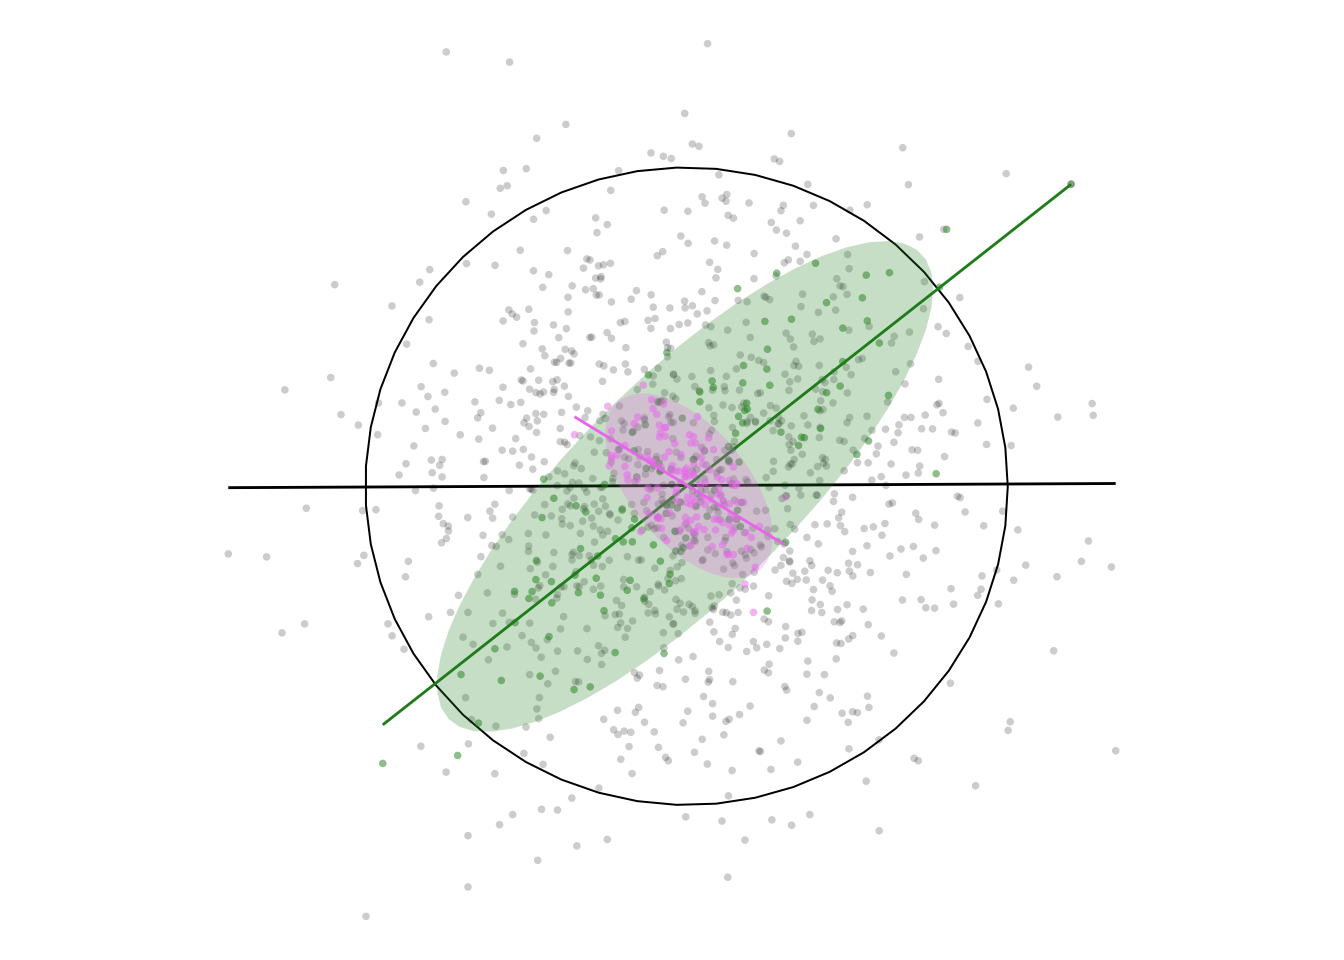
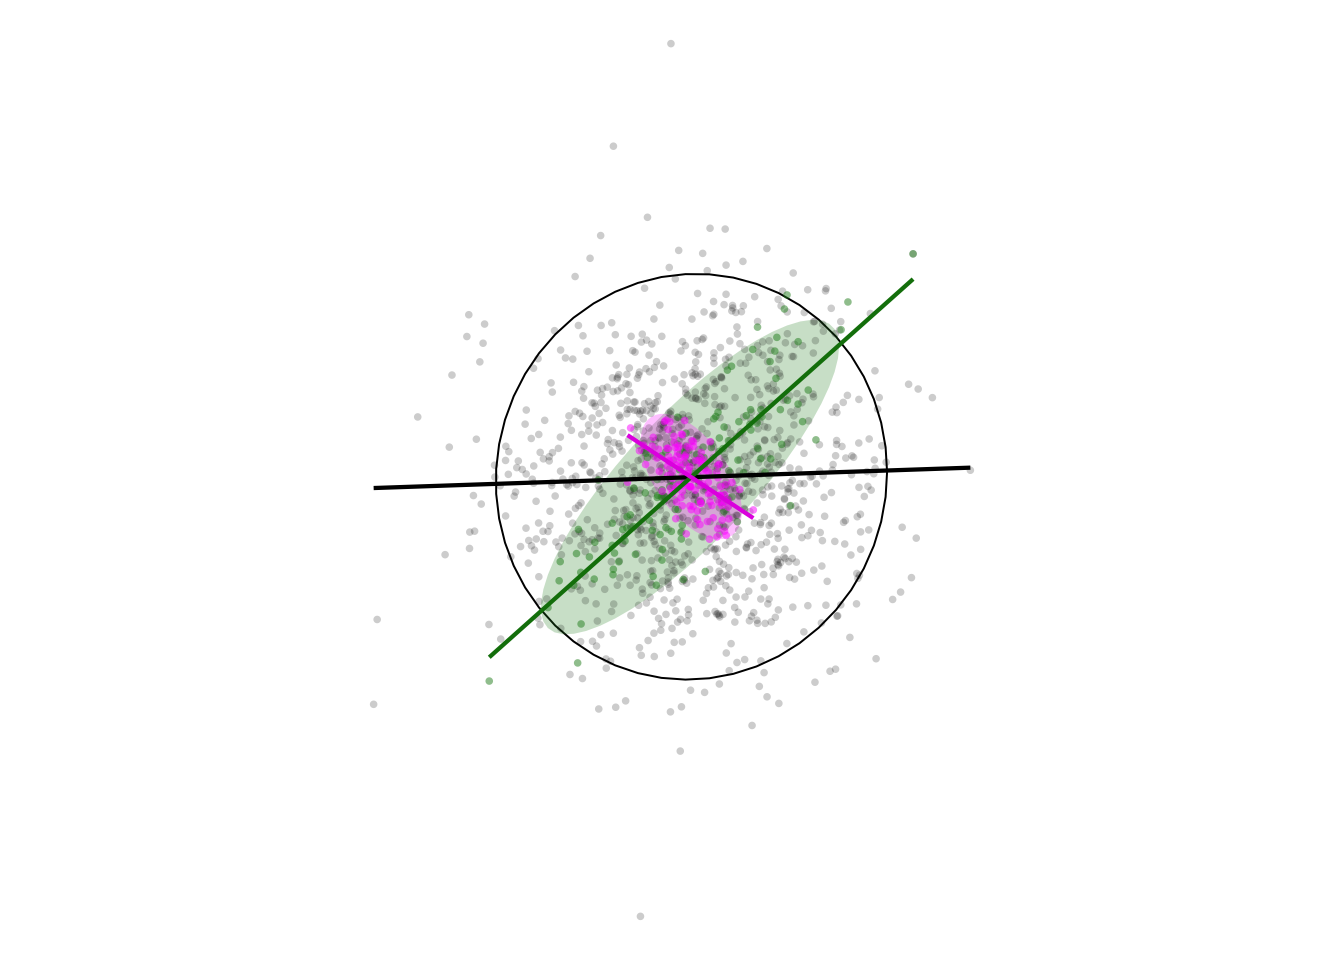
improved rendering of MAUP aggregation plots in 5.7

diff --git a/docs/chapters/chap5/fig5-07-maup-aggregation.html b/docs/chapters/chap5/fig5-07-maup-aggregation.html
@@ -218,13 +218,13 @@ pre > code.sourceCode > span > a:first-child::before { text-decoration: underlin
 </header>
 
 <p>This page produces a coloured version of Figure 5.7 which may be a little easier to read. It also uses standard deviation ellipses to make things a bit clearer (I hope).</p>
-<div class="cell" data-hash="fig5-07-maup-aggregation_cache/html/unnamed-chunk-1_4164e071b684a36f25d918a25557b304">
+<div class="cell" data-hash="fig5-07-maup-aggregation_cache/html/unnamed-chunk-1_1a303b15237f517dd2593d4092fdf454">
 <details open="">
 <summary>Code</summary>
 <div class="sourceCode cell-code" id="cb1"><pre class="sourceCode r code-with-copy"><code class="sourceCode r"><span id="cb1-1"><a href="#cb1-1" aria-hidden="true" tabindex="-1"></a><span class="fu">library</span>(MASS)</span>
 <span id="cb1-2"><a href="#cb1-2" aria-hidden="true" tabindex="-1"></a><span class="fu">library</span>(ggplot2)</span>
-<span id="cb1-3"><a href="#cb1-3" aria-hidden="true" tabindex="-1"></a><span class="fu">library</span>(ggpubr)</span>
-<span id="cb1-4"><a href="#cb1-4" aria-hidden="true" tabindex="-1"></a><span class="fu">library</span>(tidyverse)</span></code><button title="Copy to Clipboard" class="code-copy-button"><i class="bi"></i></button></pre></div>
+<span id="cb1-3"><a href="#cb1-3" aria-hidden="true" tabindex="-1"></a><span class="fu">library</span>(tidyverse)</span>
+<span id="cb1-4"><a href="#cb1-4" aria-hidden="true" tabindex="-1"></a><span class="fu">library</span>(colorspace)</span></code><button title="Copy to Clipboard" class="code-copy-button"><i class="bi"></i></button></pre></div>
 </details>
 </div>
 <section id="data" class="level2">
@@ -283,33 +283,49 @@ pre > code.sourceCode > span > a:first-child::before { text-decoration: underlin
 <section id="plotting-functions" class="level2">
 <h2 class="anchored" data-anchor-id="plotting-functions">Plotting functions</h2>
 <p>We also make some plotting functions so we don’t have to repeat a lot of code. These add three plots based on a dataset. A scatterplot of the points, a standard deviation ellipse, and a best fit line. This will make sense when you see the plots.</p>
-<div class="cell" data-hash="fig5-07-maup-aggregation_cache/html/unnamed-chunk-4_6028db0be154a69816e5ccf1ca24daac">
+<div class="cell" data-hash="fig5-07-maup-aggregation_cache/html/unnamed-chunk-4_9cf5914e4d49a5d39f004063d89c7420">
 <details>
 <summary>Code</summary>
-<div class="sourceCode cell-code" id="cb4"><pre class="sourceCode r code-with-copy"><code class="sourceCode r"><span id="cb4-1"><a href="#cb4-1" aria-hidden="true" tabindex="-1"></a>add_df_plots <span class="ot">&lt;-</span> <span class="cf">function</span>(g, df, colour, <span class="at">alpha_pts =</span> <span class="fl">0.5</span>, </span>
-<span id="cb4-2"><a href="#cb4-2" aria-hidden="true" tabindex="-1"></a>                         <span class="at">alpha_ellipse_fill =</span> <span class="fl">0.25</span>, <span class="at">polygon =</span> <span class="cn">TRUE</span>) {</span>
-<span id="cb4-3"><a href="#cb4-3" aria-hidden="true" tabindex="-1"></a>  g <span class="ot">&lt;-</span> g <span class="sc">+</span> </span>
-<span id="cb4-4"><a href="#cb4-4" aria-hidden="true" tabindex="-1"></a>    <span class="fu">geom_point</span>(<span class="at">data =</span> df, <span class="fu">aes</span>(<span class="at">x =</span> x, <span class="at">y =</span> y),</span>
-<span id="cb4-5"><a href="#cb4-5" aria-hidden="true" tabindex="-1"></a>               <span class="at">colour =</span> colour, <span class="at">alpha =</span> alpha_pts, <span class="at">pch =</span> <span class="dv">16</span>, <span class="at">size =</span> <span class="dv">1</span>)</span>
-<span id="cb4-6"><a href="#cb4-6" aria-hidden="true" tabindex="-1"></a>  <span class="cf">if</span> (polygon) {</span>
-<span id="cb4-7"><a href="#cb4-7" aria-hidden="true" tabindex="-1"></a>    g <span class="ot">&lt;-</span> g <span class="sc">+</span> </span>
-<span id="cb4-8"><a href="#cb4-8" aria-hidden="true" tabindex="-1"></a>      <span class="fu">stat_ellipse</span>(<span class="at">data =</span> df, <span class="fu">aes</span>(<span class="at">x =</span> x, <span class="at">y =</span> y),</span>
-<span id="cb4-9"><a href="#cb4-9" aria-hidden="true" tabindex="-1"></a>                   <span class="at">geom =</span> <span class="st">"polygon"</span>, <span class="at">alpha =</span> alpha_ellipse_fill, <span class="at">fill =</span> colour)</span>
-<span id="cb4-10"><a href="#cb4-10" aria-hidden="true" tabindex="-1"></a>  } <span class="cf">else</span> {</span>
-<span id="cb4-11"><a href="#cb4-11" aria-hidden="true" tabindex="-1"></a>    g <span class="ot">&lt;-</span> g <span class="sc">+</span> </span>
-<span id="cb4-12"><a href="#cb4-12" aria-hidden="true" tabindex="-1"></a>      <span class="fu">stat_ellipse</span>(<span class="at">data =</span> df, <span class="fu">aes</span>(<span class="at">x =</span> x, <span class="at">y =</span> y), <span class="at">colour =</span> colour, <span class="at">linewidth =</span> <span class="fl">0.35</span>)</span>
-<span id="cb4-13"><a href="#cb4-13" aria-hidden="true" tabindex="-1"></a>  }</span>
-<span id="cb4-14"><a href="#cb4-14" aria-hidden="true" tabindex="-1"></a>  g <span class="sc">+</span> <span class="fu">geom_smooth</span>(<span class="at">data =</span> df, <span class="fu">aes</span>(<span class="at">x =</span> x, <span class="at">y =</span> y),</span>
-<span id="cb4-15"><a href="#cb4-15" aria-hidden="true" tabindex="-1"></a>                  <span class="at">method =</span> lm, <span class="at">se =</span> <span class="cn">FALSE</span>, <span class="at">colour =</span> colour, <span class="at">linewidth =</span> <span class="fl">0.5</span>)</span>
-<span id="cb4-16"><a href="#cb4-16" aria-hidden="true" tabindex="-1"></a>}</span>
-<span id="cb4-17"><a href="#cb4-17" aria-hidden="true" tabindex="-1"></a></span>
-<span id="cb4-18"><a href="#cb4-18" aria-hidden="true" tabindex="-1"></a>three_plots <span class="ot">&lt;-</span> <span class="cf">function</span>(df1, df2, df3) {</span>
-<span id="cb4-19"><a href="#cb4-19" aria-hidden="true" tabindex="-1"></a>  g <span class="ot">&lt;-</span> <span class="fu">ggplot</span>()</span>
-<span id="cb4-20"><a href="#cb4-20" aria-hidden="true" tabindex="-1"></a>  g <span class="ot">&lt;-</span> <span class="fu">add_df_plots</span>(g, df1, <span class="st">"black"</span>, <span class="at">alpha_pts =</span> <span class="fl">0.2</span>, <span class="at">polygon =</span> <span class="cn">FALSE</span>)</span>
-<span id="cb4-21"><a href="#cb4-21" aria-hidden="true" tabindex="-1"></a>  g <span class="ot">&lt;-</span> <span class="fu">add_df_plots</span>(g, df2, <span class="st">"forestgreen"</span>)</span>
-<span id="cb4-22"><a href="#cb4-22" aria-hidden="true" tabindex="-1"></a>  g <span class="ot">&lt;-</span> <span class="fu">add_df_plots</span>(g, df3, <span class="st">"violet"</span>)</span>
-<span id="cb4-23"><a href="#cb4-23" aria-hidden="true" tabindex="-1"></a>  g <span class="sc">+</span> <span class="fu">coord_equal</span>() <span class="sc">+</span> <span class="fu">theme_void</span>()</span>
-<span id="cb4-24"><a href="#cb4-24" aria-hidden="true" tabindex="-1"></a>}</span></code><button title="Copy to Clipboard" class="code-copy-button"><i class="bi"></i></button></pre></div>
+<div class="sourceCode cell-code" id="cb4"><pre class="sourceCode r code-with-copy"><code class="sourceCode r"><span id="cb4-1"><a href="#cb4-1" aria-hidden="true" tabindex="-1"></a>add_ellipses <span class="ot">&lt;-</span> <span class="cf">function</span>(g, dfs, cols, alphas, filled_polygons) {</span>
+<span id="cb4-2"><a href="#cb4-2" aria-hidden="true" tabindex="-1"></a>  <span class="cf">for</span> (i <span class="cf">in</span> <span class="fu">seq_along</span>(dfs)) {</span>
+<span id="cb4-3"><a href="#cb4-3" aria-hidden="true" tabindex="-1"></a>    <span class="cf">if</span> (filled_polygons[i]) {</span>
+<span id="cb4-4"><a href="#cb4-4" aria-hidden="true" tabindex="-1"></a>      g <span class="ot">&lt;-</span> g <span class="sc">+</span> <span class="fu">stat_ellipse</span>(</span>
+<span id="cb4-5"><a href="#cb4-5" aria-hidden="true" tabindex="-1"></a>                 <span class="at">data =</span> dfs[[i]], <span class="fu">aes</span>(<span class="at">x =</span> x, <span class="at">y =</span> y), <span class="at">geom =</span> <span class="st">"polygon"</span>, </span>
+<span id="cb4-6"><a href="#cb4-6" aria-hidden="true" tabindex="-1"></a>                 <span class="at">alpha =</span> alphas[i], <span class="at">fill =</span> cols[i])</span>
+<span id="cb4-7"><a href="#cb4-7" aria-hidden="true" tabindex="-1"></a>    } <span class="cf">else</span> {</span>
+<span id="cb4-8"><a href="#cb4-8" aria-hidden="true" tabindex="-1"></a>      g <span class="ot">&lt;-</span> g <span class="sc">+</span> <span class="fu">stat_ellipse</span>(</span>
+<span id="cb4-9"><a href="#cb4-9" aria-hidden="true" tabindex="-1"></a>                 <span class="at">data =</span> dfs[[i]], <span class="fu">aes</span>(<span class="at">x =</span> x, <span class="at">y =</span> y), <span class="at">colour =</span> cols[i], </span>
+<span id="cb4-10"><a href="#cb4-10" aria-hidden="true" tabindex="-1"></a>                 <span class="at">linewidth =</span> <span class="fl">0.35</span>)</span>
+<span id="cb4-11"><a href="#cb4-11" aria-hidden="true" tabindex="-1"></a>    }</span>
+<span id="cb4-12"><a href="#cb4-12" aria-hidden="true" tabindex="-1"></a>  }</span>
+<span id="cb4-13"><a href="#cb4-13" aria-hidden="true" tabindex="-1"></a>  g</span>
+<span id="cb4-14"><a href="#cb4-14" aria-hidden="true" tabindex="-1"></a>}</span>
+<span id="cb4-15"><a href="#cb4-15" aria-hidden="true" tabindex="-1"></a></span>
+<span id="cb4-16"><a href="#cb4-16" aria-hidden="true" tabindex="-1"></a>add_points <span class="ot">&lt;-</span> <span class="cf">function</span>(g, dfs, cols, alphas) {</span>
+<span id="cb4-17"><a href="#cb4-17" aria-hidden="true" tabindex="-1"></a>  <span class="cf">for</span> (i <span class="cf">in</span> <span class="fu">seq_along</span>(dfs)) {</span>
+<span id="cb4-18"><a href="#cb4-18" aria-hidden="true" tabindex="-1"></a>    g <span class="ot">&lt;-</span> g <span class="sc">+</span> <span class="fu">geom_point</span>(<span class="at">data =</span> dfs[[i]], <span class="fu">aes</span>(<span class="at">x =</span> x, <span class="at">y =</span> y), </span>
+<span id="cb4-19"><a href="#cb4-19" aria-hidden="true" tabindex="-1"></a>               <span class="at">colour =</span> cols[i], <span class="at">alpha =</span> alphas[i], <span class="at">pch =</span> <span class="dv">16</span>, <span class="at">size =</span> <span class="dv">1</span>)</span>
+<span id="cb4-20"><a href="#cb4-20" aria-hidden="true" tabindex="-1"></a>  }</span>
+<span id="cb4-21"><a href="#cb4-21" aria-hidden="true" tabindex="-1"></a>  g</span>
+<span id="cb4-22"><a href="#cb4-22" aria-hidden="true" tabindex="-1"></a>}</span>
+<span id="cb4-23"><a href="#cb4-23" aria-hidden="true" tabindex="-1"></a></span>
+<span id="cb4-24"><a href="#cb4-24" aria-hidden="true" tabindex="-1"></a>add_lines <span class="ot">&lt;-</span> <span class="cf">function</span>(g, dfs, cols) {</span>
+<span id="cb4-25"><a href="#cb4-25" aria-hidden="true" tabindex="-1"></a>  <span class="cf">for</span> (i <span class="cf">in</span> <span class="fu">seq_along</span>(dfs)) {</span>
+<span id="cb4-26"><a href="#cb4-26" aria-hidden="true" tabindex="-1"></a>    g <span class="ot">&lt;-</span> g <span class="sc">+</span> <span class="fu">geom_smooth</span>(<span class="at">data =</span> dfs[[i]], <span class="fu">aes</span>(<span class="at">x =</span> x, <span class="at">y =</span> y), <span class="at">method =</span> lm,</span>
+<span id="cb4-27"><a href="#cb4-27" aria-hidden="true" tabindex="-1"></a>               <span class="at">se =</span> <span class="cn">FALSE</span>, <span class="at">colour =</span> <span class="fu">darken</span>(cols[i]), <span class="at">linewidth =</span> <span class="fl">0.75</span>)</span>
+<span id="cb4-28"><a href="#cb4-28" aria-hidden="true" tabindex="-1"></a>  }</span>
+<span id="cb4-29"><a href="#cb4-29" aria-hidden="true" tabindex="-1"></a>  g</span>
+<span id="cb4-30"><a href="#cb4-30" aria-hidden="true" tabindex="-1"></a>}</span>
+<span id="cb4-31"><a href="#cb4-31" aria-hidden="true" tabindex="-1"></a></span>
+<span id="cb4-32"><a href="#cb4-32" aria-hidden="true" tabindex="-1"></a>three_plots <span class="ot">&lt;-</span> <span class="cf">function</span>(dfs, <span class="at">cols =</span> <span class="fu">c</span>(<span class="st">"black"</span>, <span class="st">"forestgreen"</span>, <span class="st">"magenta"</span>)) {</span>
+<span id="cb4-33"><a href="#cb4-33" aria-hidden="true" tabindex="-1"></a>  g <span class="ot">&lt;-</span> <span class="fu">ggplot</span>()</span>
+<span id="cb4-34"><a href="#cb4-34" aria-hidden="true" tabindex="-1"></a>  g <span class="ot">&lt;-</span> <span class="fu">add_ellipses</span>(g, dfs, cols, <span class="at">alpha =</span> <span class="fu">rep</span>(<span class="fl">0.25</span>, <span class="dv">3</span>), <span class="at">filled_polygons =</span> <span class="fu">c</span>(F, T, T))</span>
+<span id="cb4-35"><a href="#cb4-35" aria-hidden="true" tabindex="-1"></a>  g <span class="ot">&lt;-</span> <span class="fu">add_points</span>(g, dfs, cols, <span class="at">alphas =</span> <span class="fu">c</span>(<span class="fl">0.2</span>, <span class="fl">0.5</span>, <span class="fl">0.5</span>))</span>
+<span id="cb4-36"><a href="#cb4-36" aria-hidden="true" tabindex="-1"></a>  g <span class="ot">&lt;-</span> <span class="fu">add_lines</span>(g, dfs, cols)</span>
+<span id="cb4-37"><a href="#cb4-37" aria-hidden="true" tabindex="-1"></a>  g <span class="sc">+</span> </span>
+<span id="cb4-38"><a href="#cb4-38" aria-hidden="true" tabindex="-1"></a>    <span class="fu">coord_equal</span>() <span class="sc">+</span> </span>
+<span id="cb4-39"><a href="#cb4-39" aria-hidden="true" tabindex="-1"></a>    <span class="fu">theme_void</span>()</span>
+<span id="cb4-40"><a href="#cb4-40" aria-hidden="true" tabindex="-1"></a>}</span></code><button title="Copy to Clipboard" class="code-copy-button"><i class="bi"></i></button></pre></div>
 </details>
 </div>
 </section>
@@ -317,7 +333,7 @@ pre > code.sourceCode > span > a:first-child::before { text-decoration: underlin
 <h2 class="anchored" data-anchor-id="finally-the-plots">Finally the plots</h2>
 <p>So now make some datsets and see what we get.</p>
 <p>First a dataset with approximate correlation between <code>x</code> and <code>y</code> of 0.5. We then aggregate it two ways and plot the results.</p>
-<div class="cell" data-hash="fig5-07-maup-aggregation_cache/html/unnamed-chunk-5_6a4e1648d16abdf18878b8fda294a348">
+<div class="cell" data-hash="fig5-07-maup-aggregation_cache/html/unnamed-chunk-5_83f77c0fdd352fb10a6625f4d55ddb29">
 <details open="">
 <summary>Code</summary>
 <div class="sourceCode cell-code" id="cb5"><pre class="sourceCode r code-with-copy"><code class="sourceCode r"><span id="cb5-1"><a href="#cb5-1" aria-hidden="true" tabindex="-1"></a>df <span class="ot">&lt;-</span> <span class="fu">get_correlated_df</span>(<span class="fl">0.5</span>)</span>
@@ -326,7 +342,7 @@ pre > code.sourceCode > span > a:first-child::before { text-decoration: underlin
 <span id="cb5-4"><a href="#cb5-4" aria-hidden="true" tabindex="-1"></a>df_diff <span class="ot">&lt;-</span> df <span class="sc">%&gt;%</span></span>
 <span id="cb5-5"><a href="#cb5-5" aria-hidden="true" tabindex="-1"></a>  <span class="fu">agg_different</span>()</span>
 <span id="cb5-6"><a href="#cb5-6" aria-hidden="true" tabindex="-1"></a></span>
-<span id="cb5-7"><a href="#cb5-7" aria-hidden="true" tabindex="-1"></a><span class="fu">three_plots</span>(df, df_sim, df_diff)</span></code><button title="Copy to Clipboard" class="code-copy-button"><i class="bi"></i></button></pre></div>
+<span id="cb5-7"><a href="#cb5-7" aria-hidden="true" tabindex="-1"></a><span class="fu">three_plots</span>(<span class="fu">list</span>(df, df_sim, df_diff))</span></code><button title="Copy to Clipboard" class="code-copy-button"><i class="bi"></i></button></pre></div>
 </details>
 <div class="cell-output-display">
 <p><img src="fig5-07-maup-aggregation_files/figure-html/unnamed-chunk-5-1.png" class="img-fluid" width="672"></p>
@@ -334,7 +350,7 @@ pre > code.sourceCode > span > a:first-child::before { text-decoration: underlin
 </div>
 <p>When we aggregate similar observations (the green ellipse) the correlation is increased, while aggregating different observations inverts the correlation (the violet ellipse)! The initial correlation is seen in the unfilled black ellipse.</p>
 <p>The effect is even more remarkable for uncorrelated data:</p>
-<div class="cell" data-hash="fig5-07-maup-aggregation_cache/html/unnamed-chunk-6_0187053ba23791502e041f66dbcd3629">
+<div class="cell" data-hash="fig5-07-maup-aggregation_cache/html/unnamed-chunk-6_a88a48c6123992ab8e7b22689ef8dd26">
 <details open="">
 <summary>Code</summary>
 <div class="sourceCode cell-code" id="cb6"><pre class="sourceCode r code-with-copy"><code class="sourceCode r"><span id="cb6-1"><a href="#cb6-1" aria-hidden="true" tabindex="-1"></a>df <span class="ot">&lt;-</span> <span class="fu">get_correlated_df</span>(<span class="dv">0</span>)</span>
@@ -343,7 +359,7 @@ pre > code.sourceCode > span > a:first-child::before { text-decoration: underlin
 <span id="cb6-4"><a href="#cb6-4" aria-hidden="true" tabindex="-1"></a>df_diff <span class="ot">&lt;-</span> df <span class="sc">%&gt;%</span></span>
 <span id="cb6-5"><a href="#cb6-5" aria-hidden="true" tabindex="-1"></a>  <span class="fu">agg_different</span>()</span>
 <span id="cb6-6"><a href="#cb6-6" aria-hidden="true" tabindex="-1"></a></span>
-<span id="cb6-7"><a href="#cb6-7" aria-hidden="true" tabindex="-1"></a><span class="fu">three_plots</span>(df, df_sim, df_diff)</span></code><button title="Copy to Clipboard" class="code-copy-button"><i class="bi"></i></button></pre></div>
+<span id="cb6-7"><a href="#cb6-7" aria-hidden="true" tabindex="-1"></a><span class="fu">three_plots</span>(<span class="fu">list</span>(df, df_sim, df_diff))</span></code><button title="Copy to Clipboard" class="code-copy-button"><i class="bi"></i></button></pre></div>
 </details>
 <div class="cell-output-display">
 <p><img src="fig5-07-maup-aggregation_files/figure-html/unnamed-chunk-6-1.png" class="img-fluid" width="672"></p>

diff --git a/docs/index-listing.html b/docs/index-listing.html
@@ -340,7 +340,7 @@ ul.task-list li input[type="checkbox"] {
 <a href="./chapters/chap5/links-5.html" class="title listing-title">Links for Chapter 5</a>
 </td>
 </tr>
-<tr data-index="18" data-categories="figures,code,R" data-listing-file-modified-sort="1698207156317" data-listing-reading-time-sort="6" data-listing-title-sort="Figure 5.7: The MAUP aggregation effect" data-listing-filename-sort="fig5-07-maup-aggregation.qmd" onclick="href = this.querySelector('a').getAttribute('href');
+<tr data-index="18" data-categories="figures,code,R" data-listing-file-modified-sort="1698216348451" data-listing-reading-time-sort="6" data-listing-title-sort="Figure 5.7: The MAUP aggregation effect" data-listing-filename-sort="fig5-07-maup-aggregation.qmd" onclick="href = this.querySelector('a').getAttribute('href');
  if (href) { window.location=href ; return false; }">
 <td>
 <a href="./chapters/chap5/fig5-07-maup-aggregation.html" class="title listing-title">Figure 5.7: The MAUP aggregation effect</a>

diff --git a/docs/chapters/chap5/index.html b/docs/chapters/chap5/index.html
@@ -327,7 +327,7 @@ I’ve remade this one in colour, because I think it’s a bit easier to see thi
 </div>
 </a>
 </div>
-<div class="g-col-1" data-index="4" data-categories="figures,code,R" data-listing-file-modified-sort="1698207156317" data-listing-reading-time-sort="6">
+<div class="g-col-1" data-index="4" data-categories="figures,code,R" data-listing-file-modified-sort="1698216348451" data-listing-reading-time-sort="6">
 <a href="../../chapters/chap5/fig5-07-maup-aggregation.html" class="quarto-grid-link">
 <div class="quarto-grid-item card h-100 card-left">
 <p class="card-img-top"><img src="fig5-07-maup-aggregation_files/figure-html/unnamed-chunk-5-1.png" style="height: 150px;"  class="thumbnail-image card-img"/></p>
